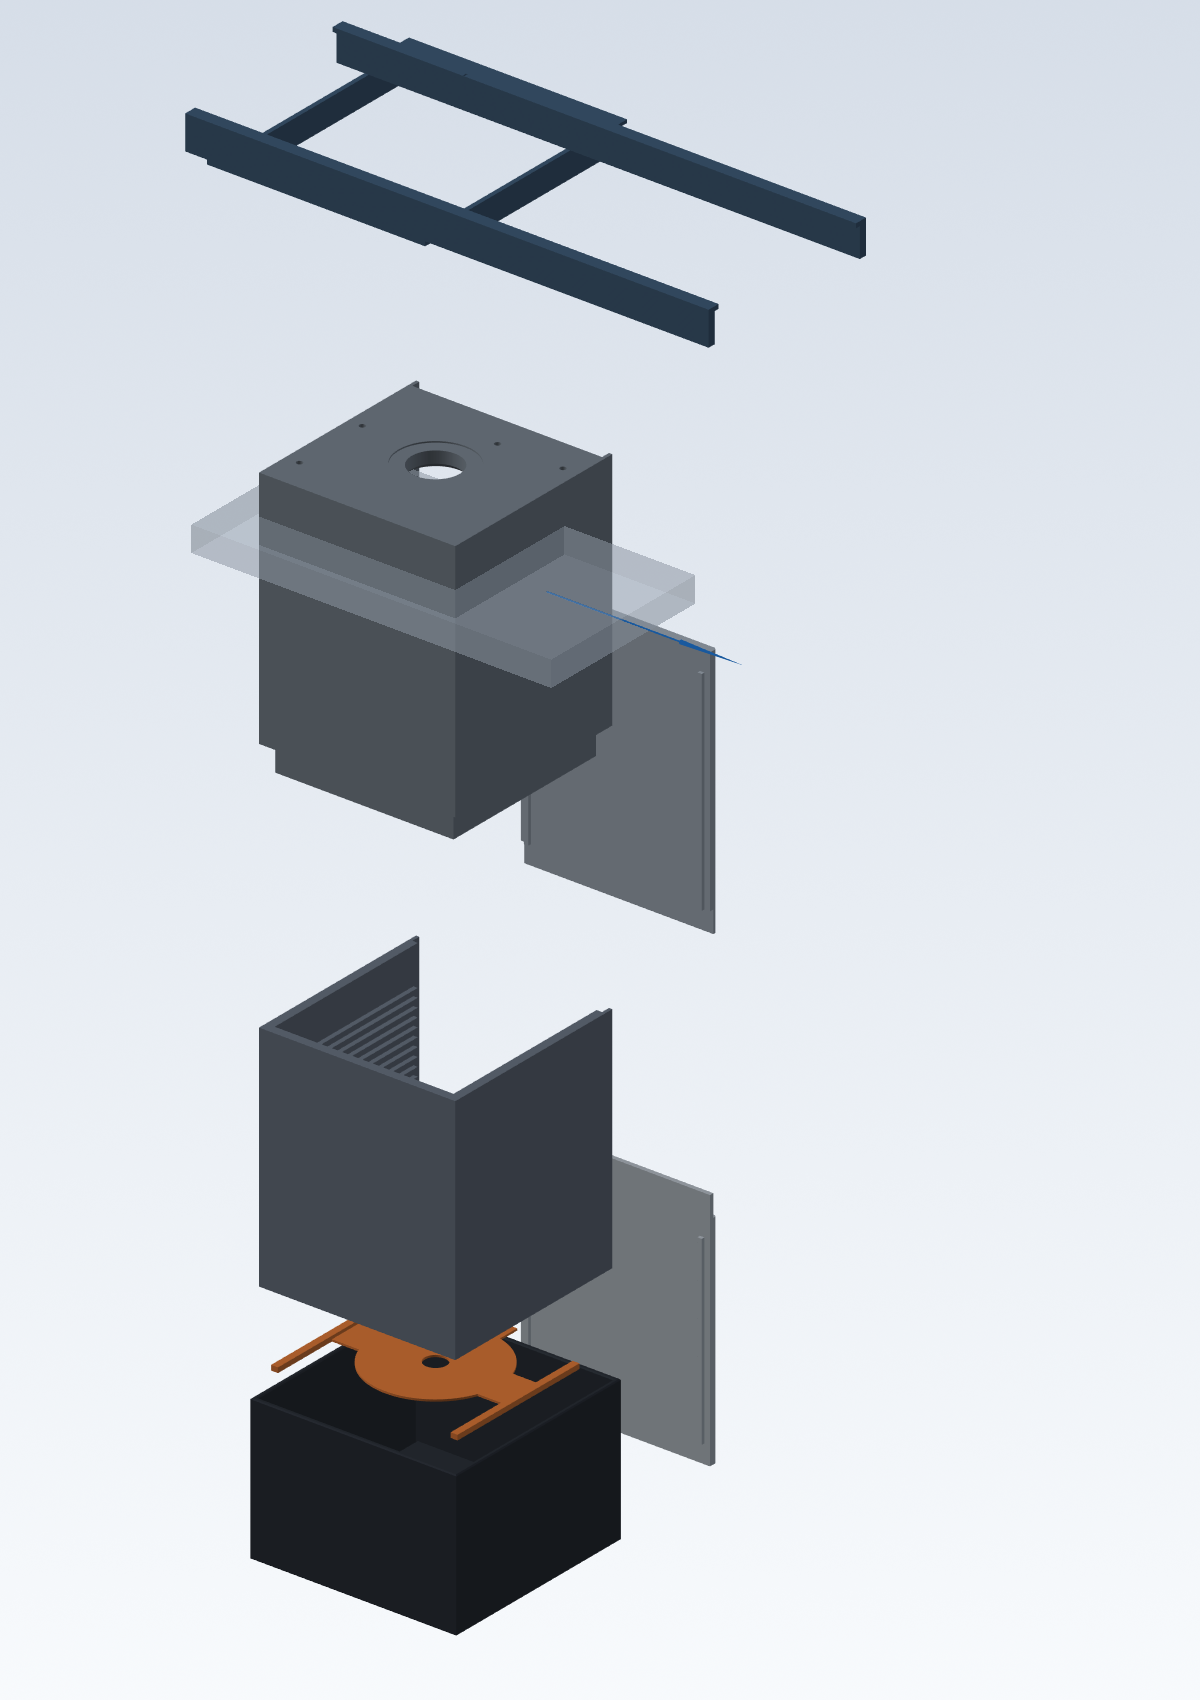
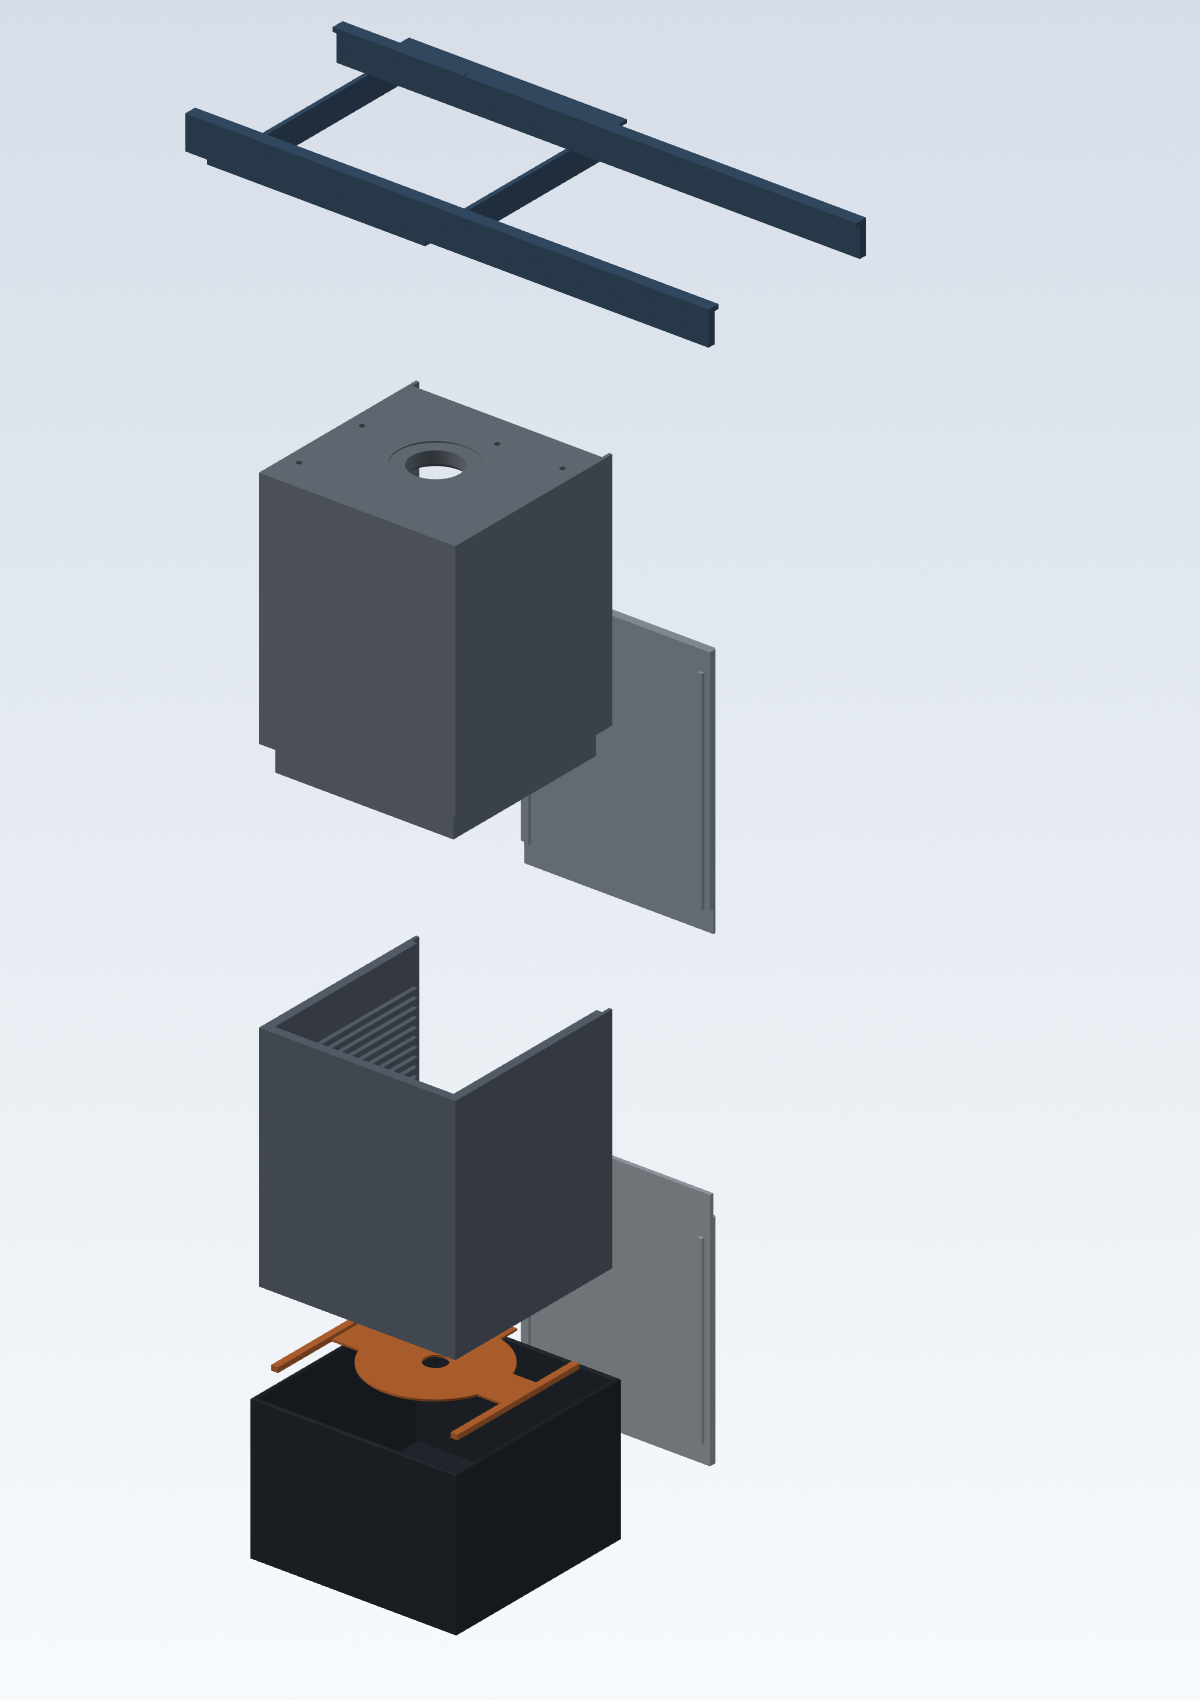
updated exploded view in readme

Changed region(s): [[0.1542, 0.2806, 0.5858, 0.4053]]

diff --git a/scripts/render_readme.py b/scripts/render_readme.py
@@ -3,7 +3,7 @@
 Uses VTK offscreen rendering, so no GUI or external renderer is needed.
 
 Outputs:
-    renders/exploded.png   exploded assembly with a translucent phone reference
+    renders/exploded.png   exploded assembly of the current build
     renders/parts.png      sheet of the printed parts in the current build
 
 Run:
@@ -14,7 +14,6 @@ import os
 import tempfile
 
 from PIL import Image, ImageDraw, ImageFont
-from vtkmodules.vtkFiltersSources import vtkArrowSource, vtkCubeSource
 from vtkmodules.vtkIOGeometry import vtkSTLReader
 from vtkmodules.vtkIOImage import vtkPNGWriter
 from vtkmodules.vtkRenderingOpenGL2 import vtkEGLRenderWindow
@@ -167,37 +166,6 @@ def render_exploded():
         if filename in EXPLODE:
             actor.SetPosition(*EXPLODE[filename])
         actors.append(actor)
-
-    # Reference phone: case 165 x 82.6 x 11.5, lifted clear above the cap.
-    cube = vtkCubeSource()
-    cube.SetXLength(165.0)
-    cube.SetYLength(82.6)
-    cube.SetZLength(11.5)
-    cube.SetCenter(22.5, -23.7, 221.7 + 5.75 + 147 + 42)
-    mapper = vtkPolyDataMapper()
-    mapper.SetInputConnection(cube.GetOutputPort())
-    phone = vtkActor()
-    phone.SetMapper(mapper)
-    phone.GetProperty().SetColor(0.74, 0.79, 0.85)
-    phone.GetProperty().SetAmbient(0.45)
-    phone.GetProperty().SetDiffuse(0.55)
-    phone.GetProperty().SetOpacity(0.32)
-    actors.append(phone)
-
-    # Slide-direction arrow above the phone.
-    arrow = vtkArrowSource()
-    arrow.SetTipLength(0.32)
-    arrow.SetTipRadius(0.10)
-    arrow.SetShaftRadius(0.035)
-    amap = vtkPolyDataMapper()
-    amap.SetInputConnection(arrow.GetOutputPort())
-    aactor = vtkActor()
-    aactor.SetMapper(amap)
-    aactor.SetPosition(70, -23.7, 421)
-    aactor.SetScale(90, 9, 9)
-    aactor.GetProperty().SetColor(0.10, 0.35, 0.62)
-    aactor.GetProperty().SetLighting(False)
-    actors.append(aactor)
 
     out = os.path.join(RENDERS, "exploded.png")
     render_png(actors, 1200, 1700, out, azimuth="iso", margin=0.65)

diff --git a/README.md b/README.md
@@ -7,9 +7,6 @@ holder, with no glue and no metal hardware in the current build.
 
 ![Exploded view of the camera](renders/exploded.png)
 
-The translucent slab is a **phone reference**, not a printed part; the arrow
-shows the direction the phone slides to choose a lens.
-
 Full build instructions are in [ASSEMBLY.md](ASSEMBLY.md); print details are in
 [PRINTSETTINGS.md](PRINTSETTINGS.md).
 
@@ -67,11 +64,3 @@ values below.
 | Aperture stops (6) | Base profile as-is | 0.9 mm web and 2.3 mm pads work fine at 0.20 mm |
 | Phone cap | As modelled, z up; 4 walls, 15% gyroid | 240 mm long; shift off the bed labels, no supports, ~60 g |
 | Lens test ring / alignment jig | Base profile as-is | Flat on the bed, no supports |
-
-### Bed-label discoloration
-
-Cosmetic ghosting of the bed's printed labels is usually a contact/gloss or
-heat-tint effect, not a nozzle problem. Use the "Textured PEI Plate" preset,
-wash both sides of the sheet with soap and water, reseat it firmly, and if the
-mark still shows, rotate the part or shift it 10–15 mm off the text. A yellow or
-brown tint with an odour means drop the bed to 55 °C and clean again.
